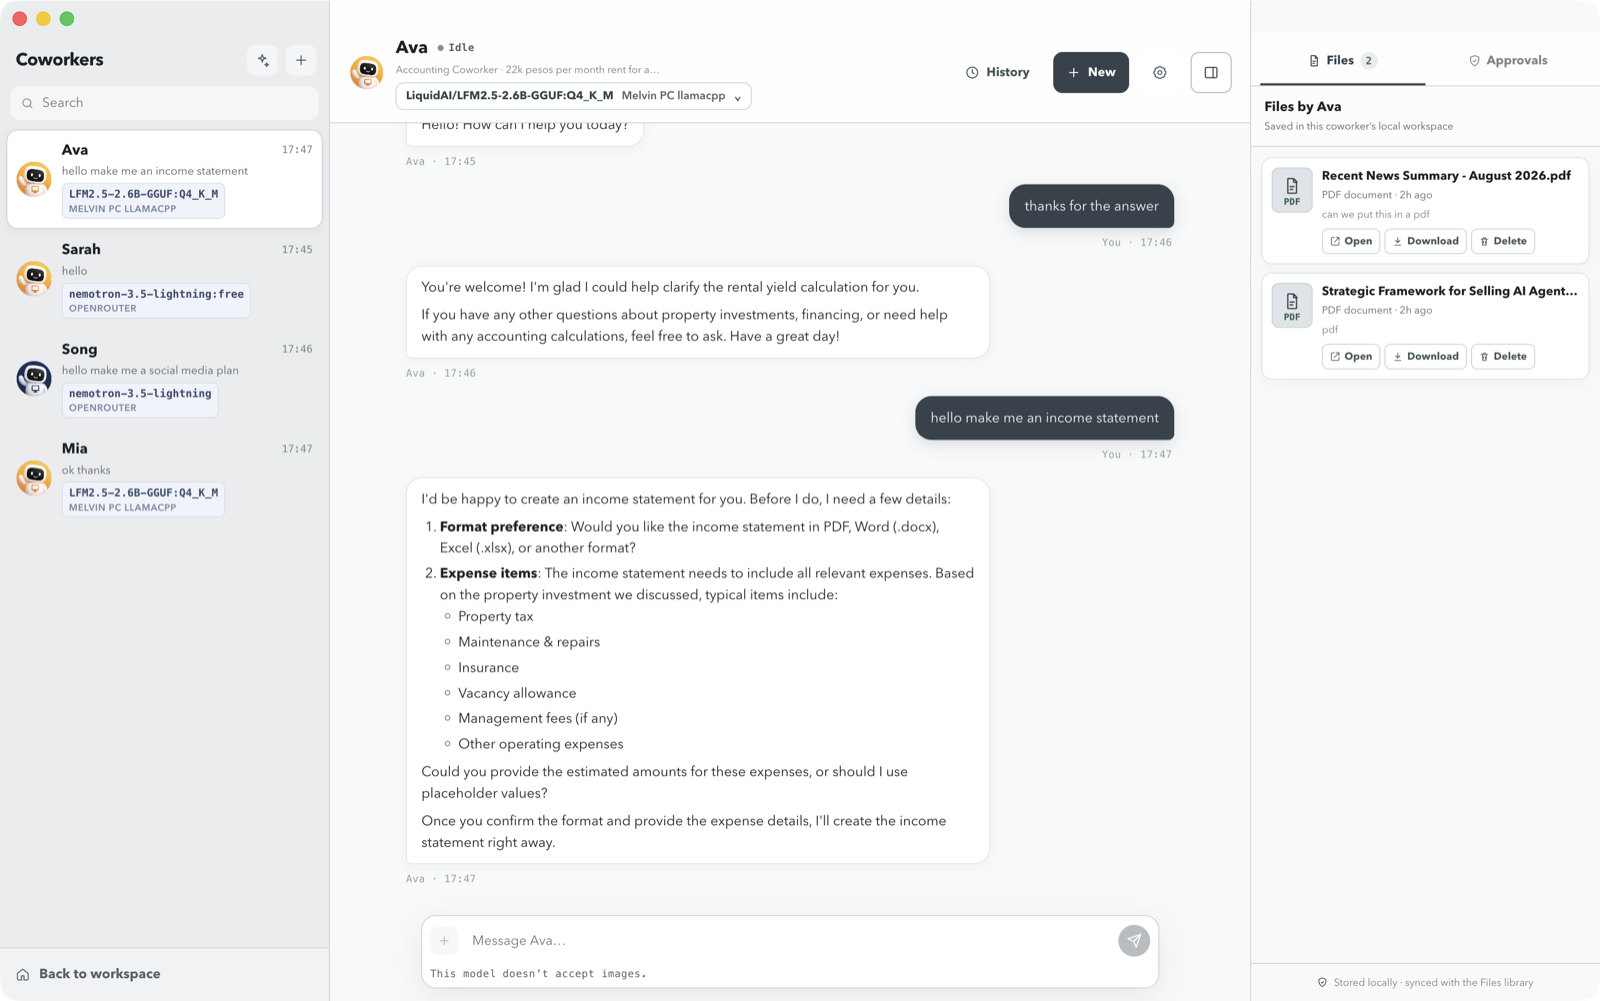
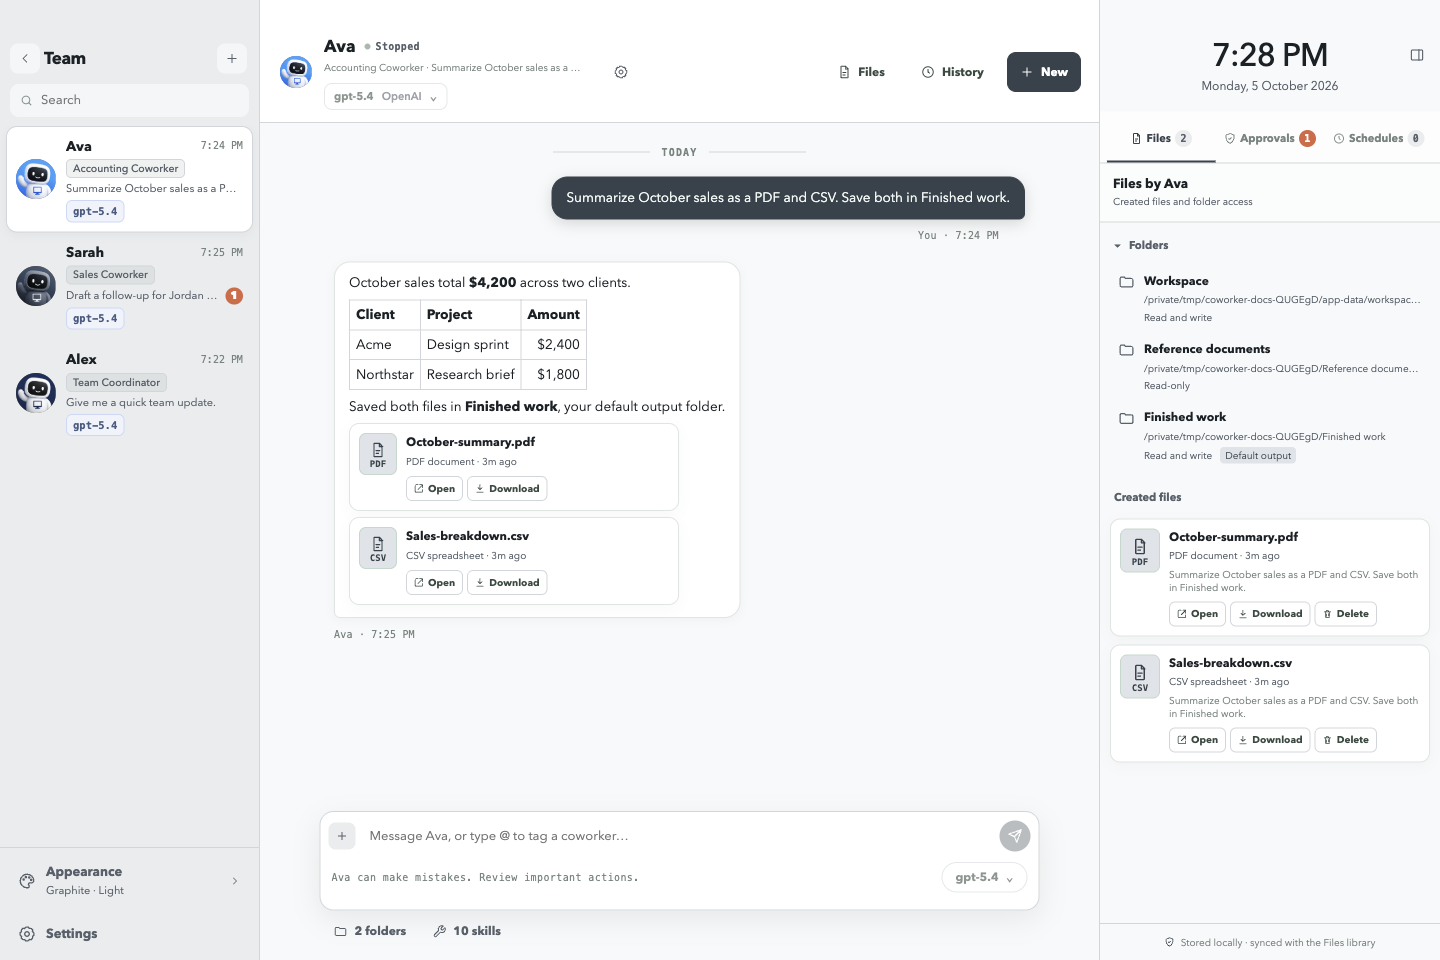
Refresh the README screenshots for v0.7.2
Recapture Home, Chat, and Approvals in a fresh profile, add the file
explorer, and drop the old Coworkers screenshot. Describe folder access
and the starter coworkers in the README.

diff --git a/README.md b/README.md
@@ -12,7 +12,7 @@ AI agents for your work, running on your own computer.
 ![Telegram](https://img.shields.io/badge/Telegram-supported-26A5E4?logo=telegram&logoColor=white)
 ![Discord](https://img.shields.io/badge/Discord-supported-5865F2?logo=discord&logoColor=white)
 
-![Coworker chat](docs/images/coworker-chat.png)
+![Coworker chat with created files, folder permissions, and a default output folder](docs/images/coworker-chat.png)
 
 Coworker is a local-first desktop app for independent AI coworkers. There is **no subscription**. The app runs on **your computer**, talks to **local models** or keys you bring, learns new **skills**, keeps a **scheduler**, pauses on **approvals**, and can meet you on **Telegram** or **Discord**.
 
@@ -22,6 +22,7 @@ Coworker is a local-first desktop app for independent AI coworkers. There is **n
 
 - **No subscription** — free to download and use. Pay a model provider only if you choose one.
 - **Runs on your computer** — macOS, Windows, and Linux. Conversations, files, and app data are stored locally.
+- **Files and folders** — grant read-only or read-and-write folder access, choose a default output folder, and browse files in a tree view. Open, download, or bundle selected files as a ZIP.
 - **Local models** — point it at [Ollama](https://ollama.com) or [LM Studio](https://lmstudio.ai) and inference never leaves your machine.
 - **Bring your own keys** — Anthropic, OpenAI, Google, OpenRouter, or any OpenAI-compatible endpoint. Credentials stay in OS-backed storage.
 - **A team** — mark one coworker as primary to coordinate the others and post a daily team digest. Coworkers can hand work to each other, and Home shows what everyone is doing.
@@ -62,7 +63,7 @@ pnpm dev
 
 Unpackaged development builds use a separate **Coworker Development** data profile. Set `COWORKER_DATA_PATH` to an absolute directory to use another isolated profile; packaged builds continue using the normal production data directory.
 
-The app ships with two demo coworkers — **Ava** (accounting) and **Sarah** (sales) — that run on a built-in faux provider, so you can try the full flow without an API key.
+The app ships with two starter coworkers — **Ava** (accounting) and **Sarah** (sales). Configure a provider and model before asking them to work; coworkers without a configured model show a notice instead of replying.
 
 To connect a real model, open **Settings → Model Providers**, add credentials, and verify the provider. Ollama (`http://127.0.0.1:11434/v1`) and LM Studio (`http://127.0.0.1:1234/v1`) work without an API key.
 

diff --git a/docs/screenshots.md b/docs/screenshots.md
@@ -1,19 +1,19 @@
 # Screenshots
 
-The [chat view](../README.md) is also the hero image on the main README.
+Captured from Coworker **v0.7.2** in a fresh profile with fictional sample conversations and files. The [chat view](../README.md) is also the hero image on the main README.
 
-**Team room** — the floor at a glance, a composer that puts any coworker to work, and a live activity log.
+**Home** — assign work to a coworker, follow team activity, review pending approvals, and open recent files. The right sidebar includes the time and date.
 
-![Team room](images/home.png)
+![Home with team activity, an approval waiting for review, and recent files](images/home.png)
 
-**Coworkers** — each one has an independent runtime, workspace, and single focused task queue.
+**Chat** — switch between coworkers in the left sidebar and open or download their created files from the conversation. The Files tab shows accessible folders, their permissions, and the default output folder; the folder list can be collapsed.
 
-![Coworkers](images/coworkers.png)
+![Coworker chat with PDF and CSV downloads and folder access in the right sidebar](images/coworker-chat.png)
 
-**Chat** — streaming Markdown replies, per-coworker model switching, and the files a coworker writes into its own workspace.
+**File explorer** — open **Files** beside **History** and **New** in the coworker header. The explorer starts in the configured default output folder. Expand folders in the tree or choose **All files**, filter the list, and select files to download as a ZIP. Deleting files or folders requires confirmation.
 
-![Coworker chat](images/coworker-chat.png)
+![File explorer with an expanded folder tree and two files selected for ZIP download](images/file-explorer.png)
 
-**Approvals** — consequential actions pause here, and decisions are written to SQLite before work resumes.
+**Approvals** — review the proposed action and its contents before approving, editing, or rejecting it. Decisions are saved before work resumes.
 
-![Approvals](images/approvals.png)
+![Approvals showing a sample client follow-up email awaiting review](images/approvals.png)
